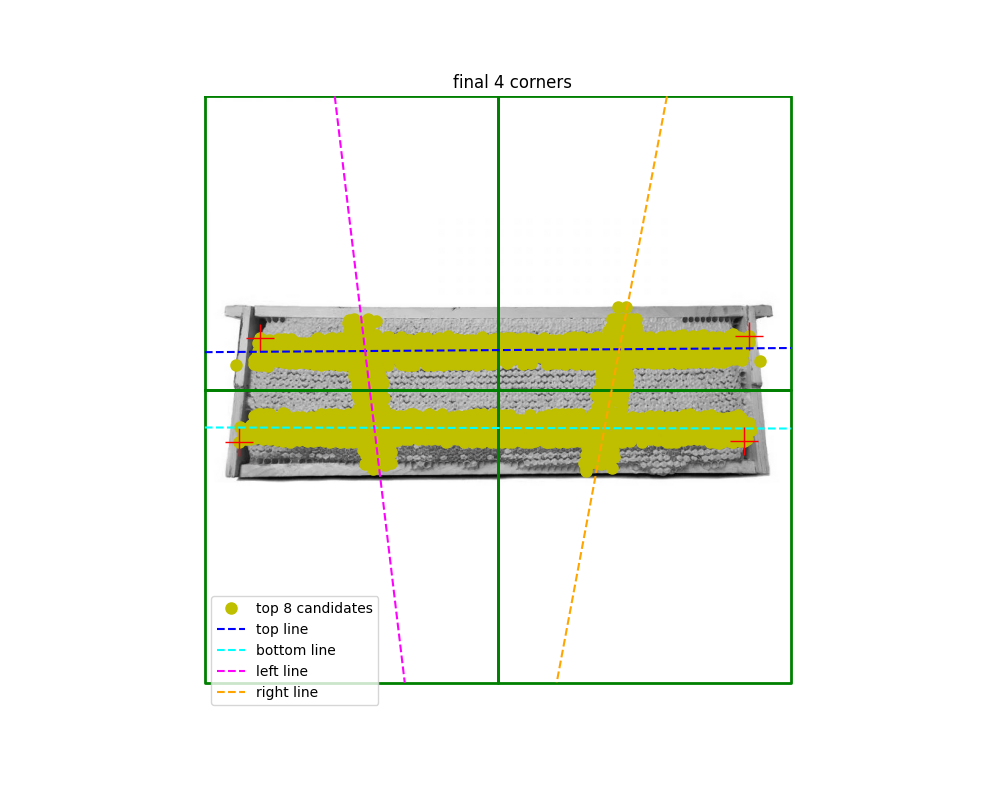
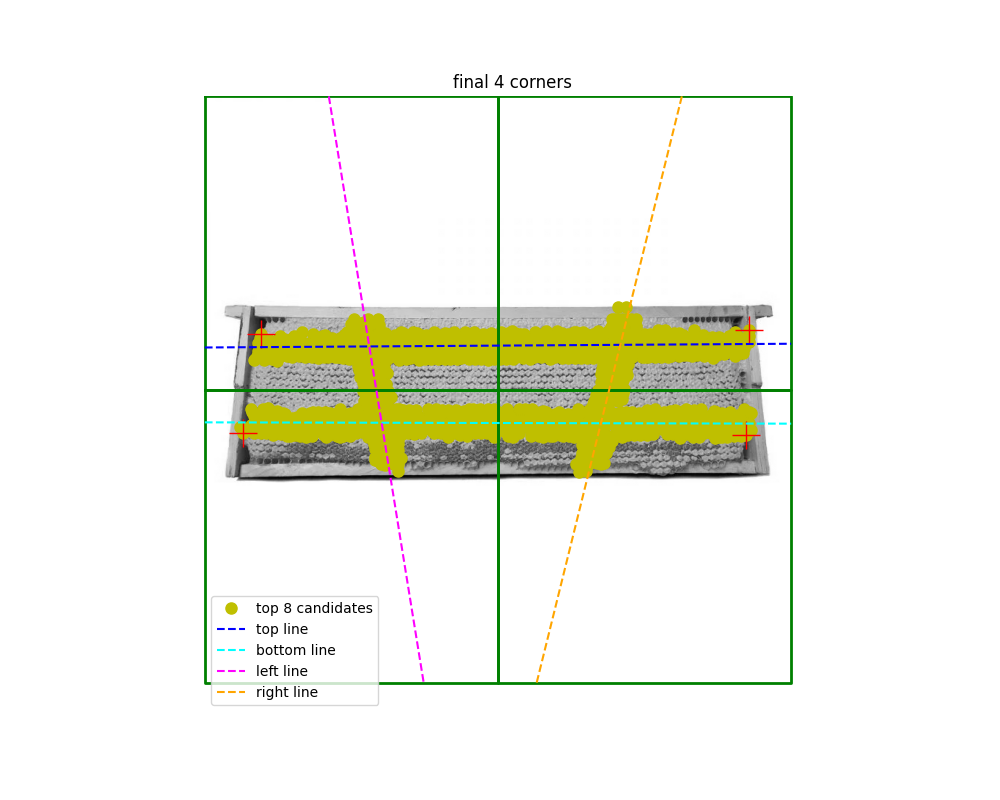
varroa retification test

diff --git a/beevision/src/beevision/pipeline/analyze_frame.py b/beevision/src/beevision/pipeline/analyze_frame.py
@@ -44,10 +44,12 @@ if __name__ == "__main__":
     path5 = "/Users/ethanlin/CSCI1430_Homeworks/Comb-puter-Vision/beevision/data/test_images_rectification/tilted_beehive_5.jpg"
     path6 = "/Users/ethanlin/CSCI1430_Homeworks/Comb-puter-Vision/beevision/data/test_images_rectification/tilted_beehive_6.jpg"
     path8 = "/Users/ethanlin/CSCI1430_Homeworks/Comb-puter-Vision/beevision/data/test_images_rectification/tilted_beehive_8.jpg"
+    path_varroa = "/Users/ethanlin/CSCI1430_Homeworks/Comb-puter-Vision/beevision/data/test_images_rectification/tilted_beehive_with_varroa.jpg"
     # analyze_frame(path, 1) 
     analyze_frame(path7, 7) 
     analyze_frame(path3, 3) 
     analyze_frame(path5, 5) 
     analyze_frame(path6, 6) 
     analyze_frame(path8, 8) 
+    analyze_frame(path_varroa, 9) 
     # analyze_frame(path3, 3) 
